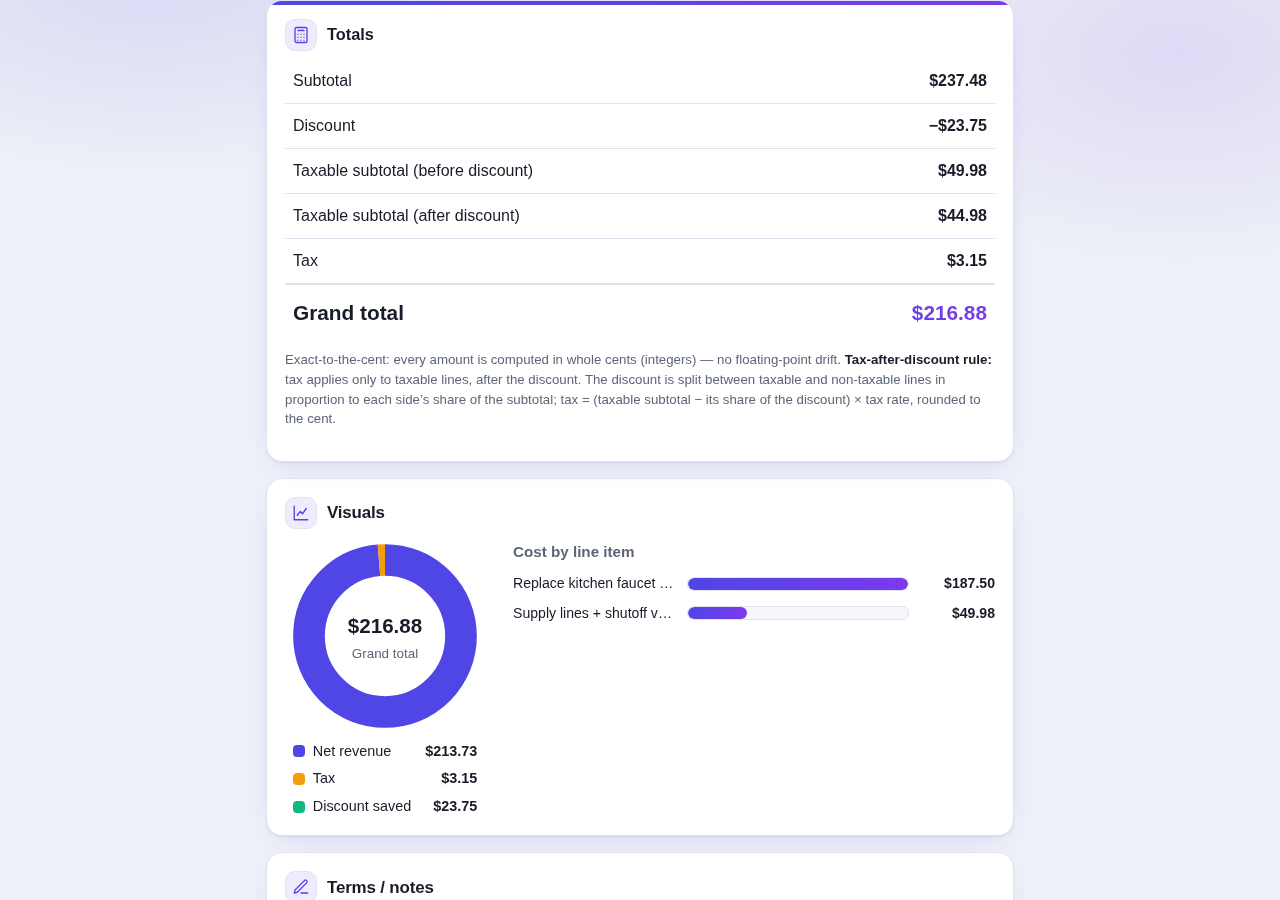
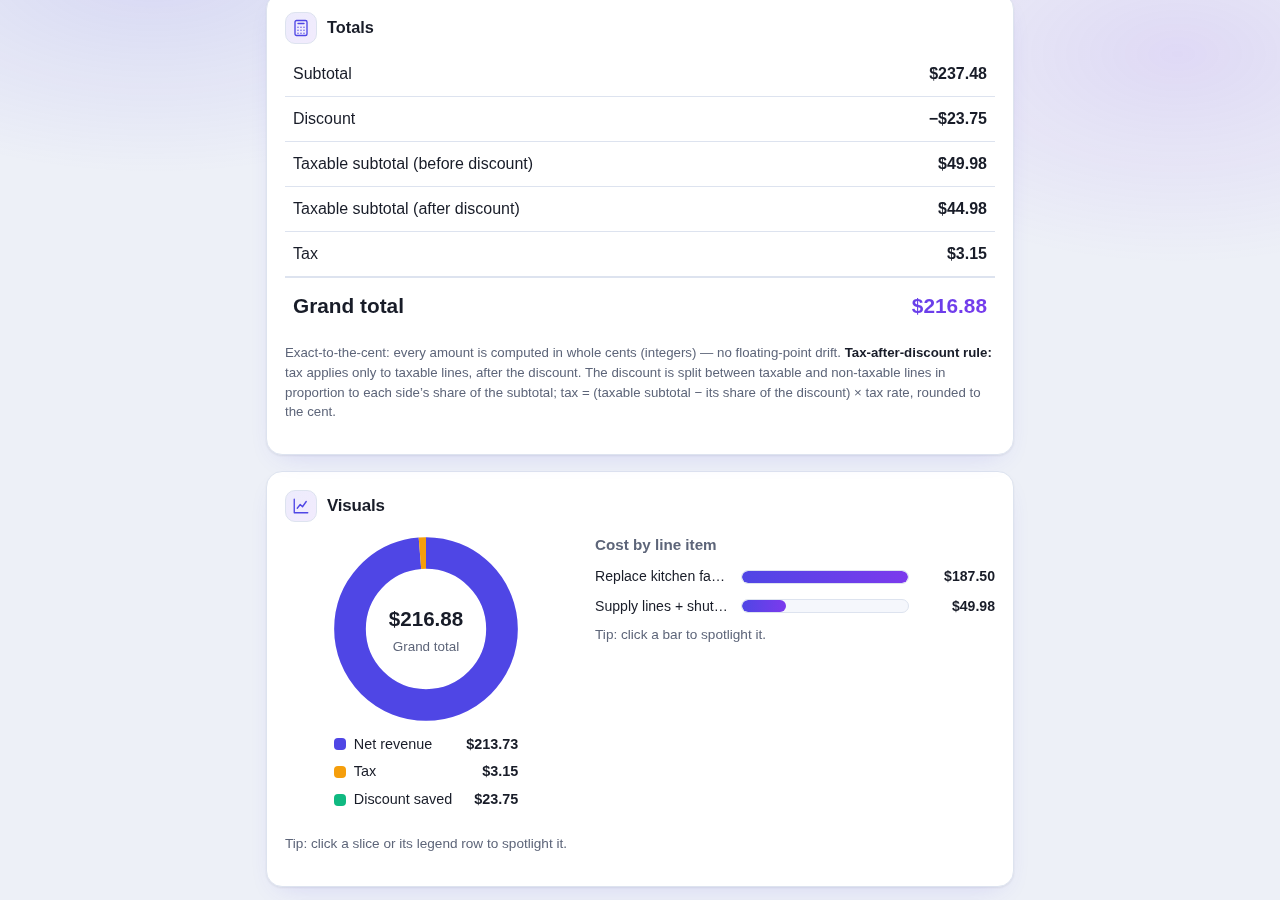
glenerds microsite transfer

Changed region(s): [[0.2188, 0.56, 0.7812, 1.0], [0.2188, 0.0, 0.7812, 0.4667], [0.2188, 0.4978, 0.7812, 0.5289]]

diff --git a/staging/published/quotecraft/index.html b/staging/published/quotecraft/index.html
@@ -215,6 +215,22 @@ tbody tr{transition:background .12s ease}
 .vbar-track{flex:1;height:14px;border-radius:7px;background:var(--surface-2);border:1px solid var(--line);overflow:hidden;min-width:40px}
 .vbar-fill{display:block;height:100%;border-radius:7px;background:linear-gradient(90deg,var(--accent),var(--accent-2))}
 .vbar-val{flex:0 0 auto;min-width:76px;text-align:right;font-size:.88rem;font-variant-numeric:tabular-nums;font-weight:600}
+.vbar-cap{margin-top:8px;font-size:.85rem;color:var(--muted);min-height:1.3em}
+/* clickable chart segments: spotlight on select, shape-following focus glow (never outline on SVG) */
+.vseg{cursor:pointer;transition:opacity .25s ease}
+.vseg:focus{outline:none}
+.vseg:focus-visible{filter:drop-shadow(0 0 5px var(--accent,#4f46e5))}
+.vseg-hit{cursor:pointer}
+.leg-btn{cursor:pointer;border-radius:6px;padding:2px 4px;margin:-2px -4px}
+.leg-btn:hover{background:var(--surface-2)}
+.leg-btn:focus{outline:none}
+.leg-btn:focus-visible{outline:2px solid var(--accent,#4f46e5);outline-offset:1px}
+.leg-sel{background:var(--surface-2)}
+.vbar-btn{cursor:pointer;border-radius:8px}
+.vbar-btn:hover .vbar-track{border-color:var(--accent)}
+.vbar-btn:focus{outline:none}
+.vbar-btn:focus-visible{outline:2px solid var(--accent,#4f46e5);outline-offset:2px}
+.vbar-sel .vbar-track{border-color:var(--accent);box-shadow:0 0 0 1px var(--accent)}
 .footnote strong{color:var(--ink)}
 
 /* ============ misc ============ */
@@ -464,6 +480,7 @@ footer.site a{color:var(--muted)}
         <div class="donut-box">
           <svg id="viz-donut" viewBox="0 0 120 120" role="img" aria-label="Grand total composition chart"></svg>
           <div class="viz-legend" id="viz-legend"></div>
+          <p class="hint">Tip: click a slice or its legend row to spotlight it.</p>
         </div>
         <div class="bars-box">
           <h3>Cost by line item</h3>
@@ -966,6 +983,16 @@ function renderTotals(q){
 
 /* ---------- quote visuals: donut + line-item bars (all text via textContent) ---------- */
 var SVGNS = "http://www.w3.org/2000/svg";
+/* spotlight selection (click a color/segment/bar to spotlight it; click again to release) */
+var vizDonutSel = null;
+var vizBarSel = null;
+function toggleVizDonut(label){ vizDonutSel = (vizDonutSel === label) ? null : label; refreshVisuals(); }
+function toggleVizBar(desc){ vizBarSel = (vizBarSel === desc) ? null : desc; refreshVisuals(); }
+function refreshVisuals(){
+  var q = (typeof cur !== "undefined" && cur.quoteId) ? getQuote(cur.quoteId) : null;
+  if(q) renderVisuals(q, calcTotals(q));
+}
+function vizKeyHandler(e, fn){ if(e.key === "Enter" || e.key === " "){ e.preventDefault(); fn(); } }
 function renderVisuals(q, t){
   var card = document.getElementById("visuals-card");
   var empty = document.getElementById("viz-empty");
@@ -991,6 +1018,8 @@ function renderVisuals(q, t){
   bg.setAttribute("stroke-width", 20);
   svg.appendChild(bg);
   var off = 0;
+  var segLabels = segs.filter(function(s){ return s.value > 0 && t.total > 0; }).map(function(s){ return s.label; });
+  if(vizDonutSel && segLabels.indexOf(vizDonutSel) < 0) vizDonutSel = null;
   segs.forEach(function(s){
     if(s.value <= 0 || t.total <= 0) return;
     var len = s.value / t.total * C;
@@ -1002,10 +1031,36 @@ function renderVisuals(q, t){
     c.setAttribute("stroke-dashoffset", (-off).toFixed(2));
     c.setAttribute("transform", "rotate(-90 60 60)");
     c.setAttribute("stroke-linecap", "butt");
+    c.setAttribute("class", "vseg");
+    c.setAttribute("tabindex", "0");
+    c.setAttribute("role", "button");
+    c.setAttribute("aria-label", "Spotlight " + s.label + ": " + fmt(s.value) + ". Activate to toggle.");
+    if(vizDonutSel && vizDonutSel !== s.label) c.setAttribute("opacity", "0.22");
+    if(vizDonutSel === s.label) c.setAttribute("style", "filter:drop-shadow(0 0 5px " + s.color + ")");
+    (function(lbl){
+      c.addEventListener("click", function(){ toggleVizDonut(lbl); });
+      c.addEventListener("keydown", function(e){ vizKeyHandler(e, function(){ toggleVizDonut(lbl); }); });
+    })(s.label);
     svg.appendChild(c);
+    /* fat invisible hit ring so thin slices stay easy to tap */
+    var h = document.createElementNS(SVGNS, "circle");
+    h.setAttribute("cx", 60); h.setAttribute("cy", 60); h.setAttribute("r", R);
+    h.setAttribute("fill", "none"); h.setAttribute("stroke", "rgba(0,0,0,0)");
+    h.setAttribute("stroke-width", 36);
+    h.setAttribute("stroke-dasharray", len.toFixed(2) + " " + (C - len).toFixed(2));
+    h.setAttribute("stroke-dashoffset", (-off).toFixed(2));
+    h.setAttribute("transform", "rotate(-90 60 60)");
+    h.setAttribute("stroke-linecap", "butt");
+    h.setAttribute("pointer-events", "stroke");
+    h.setAttribute("class", "vseg-hit");
+    h.setAttribute("aria-hidden", "true");
+    (function(lbl){ h.addEventListener("click", function(){ toggleVizDonut(lbl); }); })(s.label);
+    svg.appendChild(h);
     off += len;
   });
-  var label = fmt(t.total);
+  var selSeg = null;
+  if(vizDonutSel){ for(var sxi = 0; sxi < segs.length; sxi++) if(segs[sxi].label === vizDonutSel) selSeg = segs[sxi]; }
+  var label = fmt(selSeg ? selSeg.value : t.total);
   var te = document.createElementNS(SVGNS, "text");
   te.setAttribute("x", 60); te.setAttribute("y", 58);
   te.setAttribute("text-anchor", "middle");
@@ -1018,14 +1073,22 @@ function renderVisuals(q, t){
   cap.setAttribute("x", 60); cap.setAttribute("y", 74);
   cap.setAttribute("text-anchor", "middle");
   cap.setAttribute("font-size", "8.5"); cap.setAttribute("style", "fill:var(--muted)");
-  cap.textContent = "Grand total";
+  cap.textContent = selSeg ? selSeg.label : "Grand total";
   svg.appendChild(cap);
 
   var legend = document.getElementById("viz-legend");
   while(legend.firstChild) legend.removeChild(legend.firstChild);
   segs.forEach(function(s){
     if(s.value <= 0) return;
-    var row = el("div", {class:"leg"});
+    var row = el("div", {class:"leg leg-btn"});
+    row.setAttribute("tabindex", "0");
+    row.setAttribute("role", "button");
+    row.setAttribute("aria-label", "Spotlight " + s.label + ": " + fmt(s.value));
+    if(vizDonutSel === s.label) row.classList.add("leg-sel");
+    (function(lbl){
+      row.addEventListener("click", function(){ toggleVizDonut(lbl); });
+      row.addEventListener("keydown", function(e){ vizKeyHandler(e, function(){ toggleVizDonut(lbl); }); });
+    })(s.label);
     var sw = el("span", {class:"sw"}); sw.style.background = s.color;
     row.appendChild(sw);
     row.appendChild(el("span", null, s.label));
@@ -1044,14 +1107,25 @@ function renderVisuals(q, t){
   /* bars: line items by value (value sits in its own column — never overlaps the bar) */
   var bars = document.getElementById("viz-bars");
   while(bars.firstChild) bars.removeChild(bars.firstChild);
-  var items = (q.items || []).map(function(it){
+  var allPos = (q.items || []).map(function(it){
     return { desc: it.desc || "(no description)", cents: lineCents(it.qty, it.unitCents) };
-  }).filter(function(r){ return r.cents > 0; })
-    .sort(function(a, b){ return b.cents - a.cents; })
-    .slice(0, 8);
+  }).filter(function(r){ return r.cents > 0; });
+  var allCents = allPos.reduce(function(a, r){ return a + r.cents; }, 0);
+  var items = allPos.sort(function(a, b){ return b.cents - a.cents; }).slice(0, 8);
   var max = items.length ? items[0].cents : 0;
+  var barDescs = items.map(function(r){ return r.desc; });
+  if(vizBarSel && barDescs.indexOf(vizBarSel) < 0) vizBarSel = null;
   items.forEach(function(r){
-    var row = el("div", {class:"vbar-row"});
+    var row = el("div", {class:"vbar-row vbar-btn"});
+    row.setAttribute("tabindex", "0");
+    row.setAttribute("role", "button");
+    row.setAttribute("aria-label", "Spotlight line item " + r.desc + ": " + fmt(r.cents));
+    if(vizBarSel && vizBarSel !== r.desc) row.style.opacity = "0.35";
+    if(vizBarSel === r.desc) row.classList.add("vbar-sel");
+    (function(d){
+      row.addEventListener("click", function(){ toggleVizBar(d); });
+      row.addEventListener("keydown", function(e){ vizKeyHandler(e, function(){ toggleVizBar(d); }); });
+    })(r.desc);
     row.appendChild(el("span", {class:"vbar-name", title: r.desc}, r.desc));
     var track = el("span", {class:"vbar-track"});
     var fill = el("span", {class:"vbar-fill"});
@@ -1061,6 +1135,18 @@ function renderVisuals(q, t){
     row.appendChild(el("span", {class:"vbar-val"}, fmt(r.cents)));
     bars.appendChild(row);
   });
+  var bcap = el("div", {class:"vbar-cap"});
+  if(vizBarSel){
+    var bsel = null;
+    items.forEach(function(r){ if(r.desc === vizBarSel) bsel = r; });
+    if(bsel){
+      var pct = allCents > 0 ? Math.round(bsel.cents / allCents * 100) : 0;
+      bcap.textContent = bsel.desc + ": " + fmt(bsel.cents) + " (" + pct + "% of line items)";
+    }
+  } else {
+    bcap.textContent = "Tip: click a bar to spotlight it.";
+  }
+  bars.appendChild(bcap);
 }
 
 /* ---------- print view (customer document; NO Glenerds footer) ---------- */
@@ -1212,6 +1298,7 @@ function initTheme(){
 function bindEditor(){
   var q = getQuote(cur.quoteId);
   if(!q) return;
+  var prevSig = JSON.stringify([q.customer,q.contact,q.date,q.validUntil,q.status,q.discountType,q.discountValue,q.taxRate,q.terms]);
   q.customer = cleanText(document.getElementById("f-cust-name").value, MAX.text);
   q.contact = cleanText(document.getElementById("f-cust-contact").value, MAX.contact);
   var dEl = document.getElementById("f-quote-date");
@@ -1265,7 +1352,11 @@ function bindEditor(){
   }
   q.terms = cleanText(document.getElementById("f-terms").value, MAX.terms);
   saveSoon();
-  renderTotals(q);
+  /* skip the re-render when nothing actually changed (e.g. blur after typing):
+     rebuilding the visuals DOM between mousedown and mouseup would swallow the
+     click on a chart segment. */
+  var newSig = JSON.stringify([q.customer,q.contact,q.date,q.validUntil,q.status,q.discountType,q.discountValue,q.taxRate,q.terms]);
+  if(newSig !== prevSig) renderTotals(q);
 }
 function addOrSaveItem(){
   var q = getQuote(cur.quoteId);

diff --git a/staging/published/quotecraft/CHANGES.md b/staging/published/quotecraft/CHANGES.md
@@ -1,5 +1,12 @@
 # QuoteCraft — CHANGES.md
 
+## 2026-09-21 — clickable visuals (Glen's chart-interaction rule)
+- **Donut slices, legend rows, and line-item bars are all clickable/tappable.** Clicking a color spotlights it: the associated number/label swaps into the donut center (or a caption under the bars), other segments dim, and the selected slice gets a shape-following drop-shadow glow. Clicking again releases back to the total. Full keyboard support (Tab + Enter/Space) with `role="button"` and accessible labels.
+- **Fat invisible hit rings** (36-unit transparent stroke, `pointer-events="stroke"`) make thin slices easy to tap on touch screens.
+- **SVG focus rule honored:** `outline:none` on segments; `:focus-visible` uses a drop-shadow glow that follows the segment shape — never a rectangular outline.
+- **First-click fix:** `bindEditor` no longer re-renders totals/visuals when nothing actually changed (signature comparison), so a blur-triggered re-render can't rebuild the visuals DOM between mousedown and mouseup and swallow the click on a segment.
+- Gallery `3-totals-panel.png` re-shot to show the new hint text and bar caption; bundle ZIP rebuilt (byte-match verified).
+
 ## 2026-09-21 — visual representation pass (Glen's "spruce up" order)
 - **New "Visuals" card in the quote editor**, right under Totals. Two first-class data visuals, both driven by the live quote and re-rendered on every edit:
   - **Grand-total donut** (net revenue vs tax; discount shown as a "saved" legend row). Bounded center label per the chart standard: r=48 / 20-unit ring in a 120 viewBox (76-unit hole), 13px label with a hard 64-unit `textLength` cap applied conditionally for labels over 9 chars. Ring segments always partition the grand total exactly (dash lengths sum to the full circumference — verified in Node).
